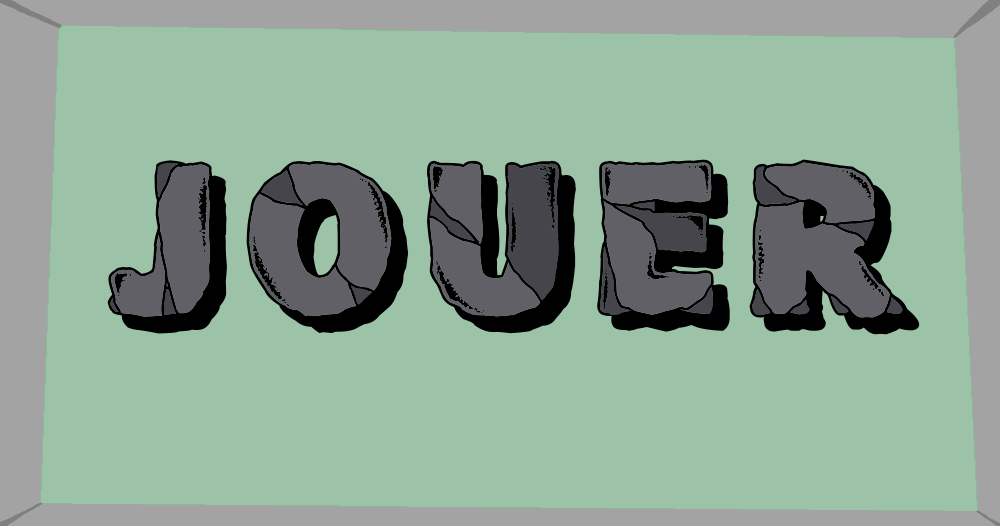
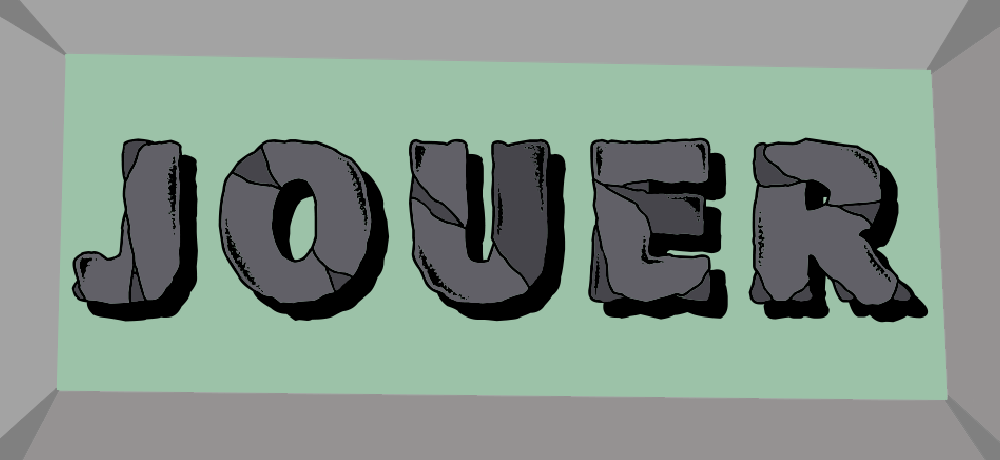
Fond plus clair

diff --git a/src/main/java/View/InitGame.java b/src/main/java/View/InitGame.java
@@ -11,13 +11,18 @@ import Global.Configuration;
 import Global.Tools;
 import java.awt.Color;
 import java.awt.Component;
+import java.awt.Dimension;
 import java.awt.Graphics;
 import java.awt.Image;
+import java.awt.Insets;
 import java.io.File;
 import java.io.IOException;
 import java.io.InputStream;
 import java.util.ArrayList;
 import javax.imageio.ImageIO;
+import javax.swing.Icon;
+import javax.swing.ImageIcon;
+import javax.swing.JButton;
 import javax.swing.JFileChooser;
 
 /**
@@ -32,6 +37,7 @@ public class InitGame extends javax.swing.JPanel {
     private final JFileChooser fc;
     private ArrayList<EditPlayer> listOfEditPlayers;
     private ImageQuits StartScreenBackground;
+    private ImageQuits PlayButton;
     
     /**
      * Creates new form InitGameAuto
@@ -90,7 +96,20 @@ public class InitGame extends javax.swing.JPanel {
 
         labelGameMode.setText("Mode de jeu");
 
-        ButtonPlay.setText("Jouer");
+        ImageIcon MyImage = new javax.swing.ImageIcon(getClass().getResource("/ChoiceGameMode/play_button.png"));
+        Image img = MyImage.getImage();
+        Image newImg = img.getScaledInstance(100, 46, Image.SCALE_SMOOTH);
+        ImageIcon image = new ImageIcon(newImg);
+        ButtonPlay.setIcon(image);
+        ButtonPlay.setBorderPainted(false);
+        ButtonPlay.setMaximumSize(new java.awt.Dimension(62, 32));
+        ButtonPlay.setMinimumSize(new java.awt.Dimension(62, 32));
+        ButtonPlay.setPreferredSize(new java.awt.Dimension(100, 46));
+        ImageIcon MyImage2 = new javax.swing.ImageIcon(getClass().getResource("/ChoiceGameMode/play_button_pressed.png"));
+        Image img2 = MyImage2.getImage();
+        Image newImg2 = img2.getScaledInstance(100, 46, Image.SCALE_SMOOTH);
+        ImageIcon image2 = new ImageIcon(newImg2);
+        ButtonPlay.setPressedIcon(image2);
         ButtonPlay.addActionListener(new java.awt.event.ActionListener() {
             public void actionPerformed(java.awt.event.ActionEvent evt) {
                 ButtonPlayActionPerformed(evt);
@@ -129,11 +148,11 @@ public class InitGame extends javax.swing.JPanel {
                                 .addPreferredGap(javax.swing.LayoutStyle.ComponentPlacement.UNRELATED)
                                 .addComponent(gameModeList, javax.swing.GroupLayout.PREFERRED_SIZE, javax.swing.GroupLayout.DEFAULT_SIZE, javax.swing.GroupLayout.PREFERRED_SIZE)))
                         .addPreferredGap(javax.swing.LayoutStyle.ComponentPlacement.RELATED)
-                        .addComponent(editPlayers, javax.swing.GroupLayout.DEFAULT_SIZE, javax.swing.GroupLayout.DEFAULT_SIZE, Short.MAX_VALUE))
+                        .addComponent(editPlayers, javax.swing.GroupLayout.DEFAULT_SIZE, 442, Short.MAX_VALUE))
                     .addGroup(layout.createSequentialGroup()
                         .addComponent(loadButton)
                         .addPreferredGap(javax.swing.LayoutStyle.ComponentPlacement.RELATED, javax.swing.GroupLayout.DEFAULT_SIZE, Short.MAX_VALUE)
-                        .addComponent(ButtonPlay)))
+                        .addComponent(ButtonPlay, javax.swing.GroupLayout.PREFERRED_SIZE, javax.swing.GroupLayout.DEFAULT_SIZE, javax.swing.GroupLayout.PREFERRED_SIZE)))
                 .addContainerGap())
         );
         layout.setVerticalGroup(
@@ -147,10 +166,10 @@ public class InitGame extends javax.swing.JPanel {
                         .addGroup(layout.createParallelGroup(javax.swing.GroupLayout.Alignment.BASELINE)
                             .addComponent(labelGameMode)
                             .addComponent(gameModeList, javax.swing.GroupLayout.PREFERRED_SIZE, javax.swing.GroupLayout.DEFAULT_SIZE, javax.swing.GroupLayout.PREFERRED_SIZE)))
-                    .addComponent(editPlayers, javax.swing.GroupLayout.DEFAULT_SIZE, javax.swing.GroupLayout.DEFAULT_SIZE, Short.MAX_VALUE))
+                    .addComponent(editPlayers, javax.swing.GroupLayout.DEFAULT_SIZE, 125, Short.MAX_VALUE))
                 .addGap(15, 15, 15)
                 .addGroup(layout.createParallelGroup(javax.swing.GroupLayout.Alignment.BASELINE)
-                    .addComponent(ButtonPlay)
+                    .addComponent(ButtonPlay, javax.swing.GroupLayout.PREFERRED_SIZE, javax.swing.GroupLayout.DEFAULT_SIZE, javax.swing.GroupLayout.PREFERRED_SIZE)
                     .addComponent(loadButton))
                 .addContainerGap())
         );

diff --git a/src/main/java/Global/Configuration.java b/src/main/java/Global/Configuration.java
@@ -43,6 +43,7 @@ public final class Configuration {
     private static String SelectedActions = "Tiles/selected_actions.png";
     public static String StartScreenBackground = "ChoiceGameMode/startscreen_background_brighter.png";
     public static String PlayButton = "ChoiceGameMode/play_button.png";
+    public static String PlayButtonPressed = "ChoiceGameMode/play_button_pressed.png";
     
     
     
